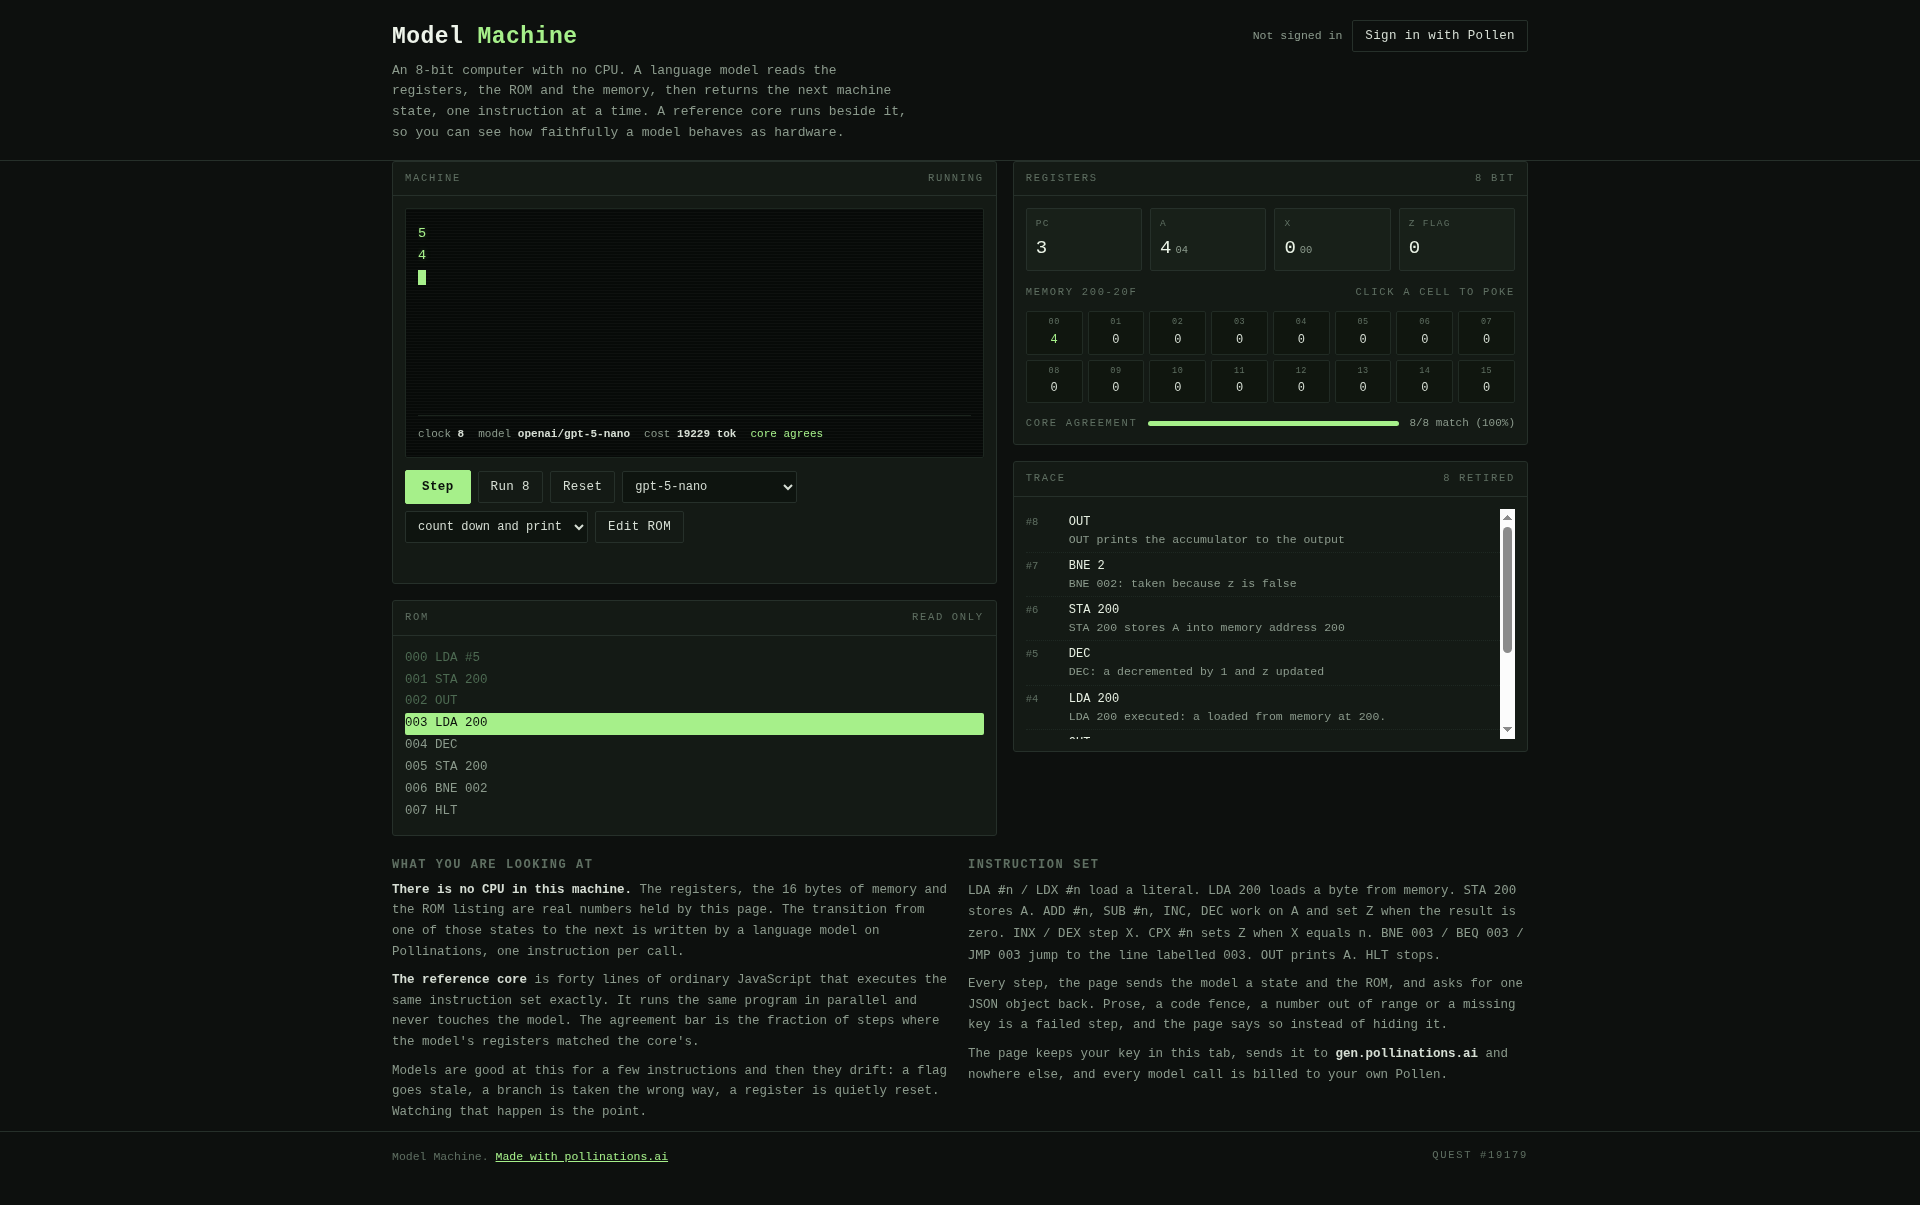
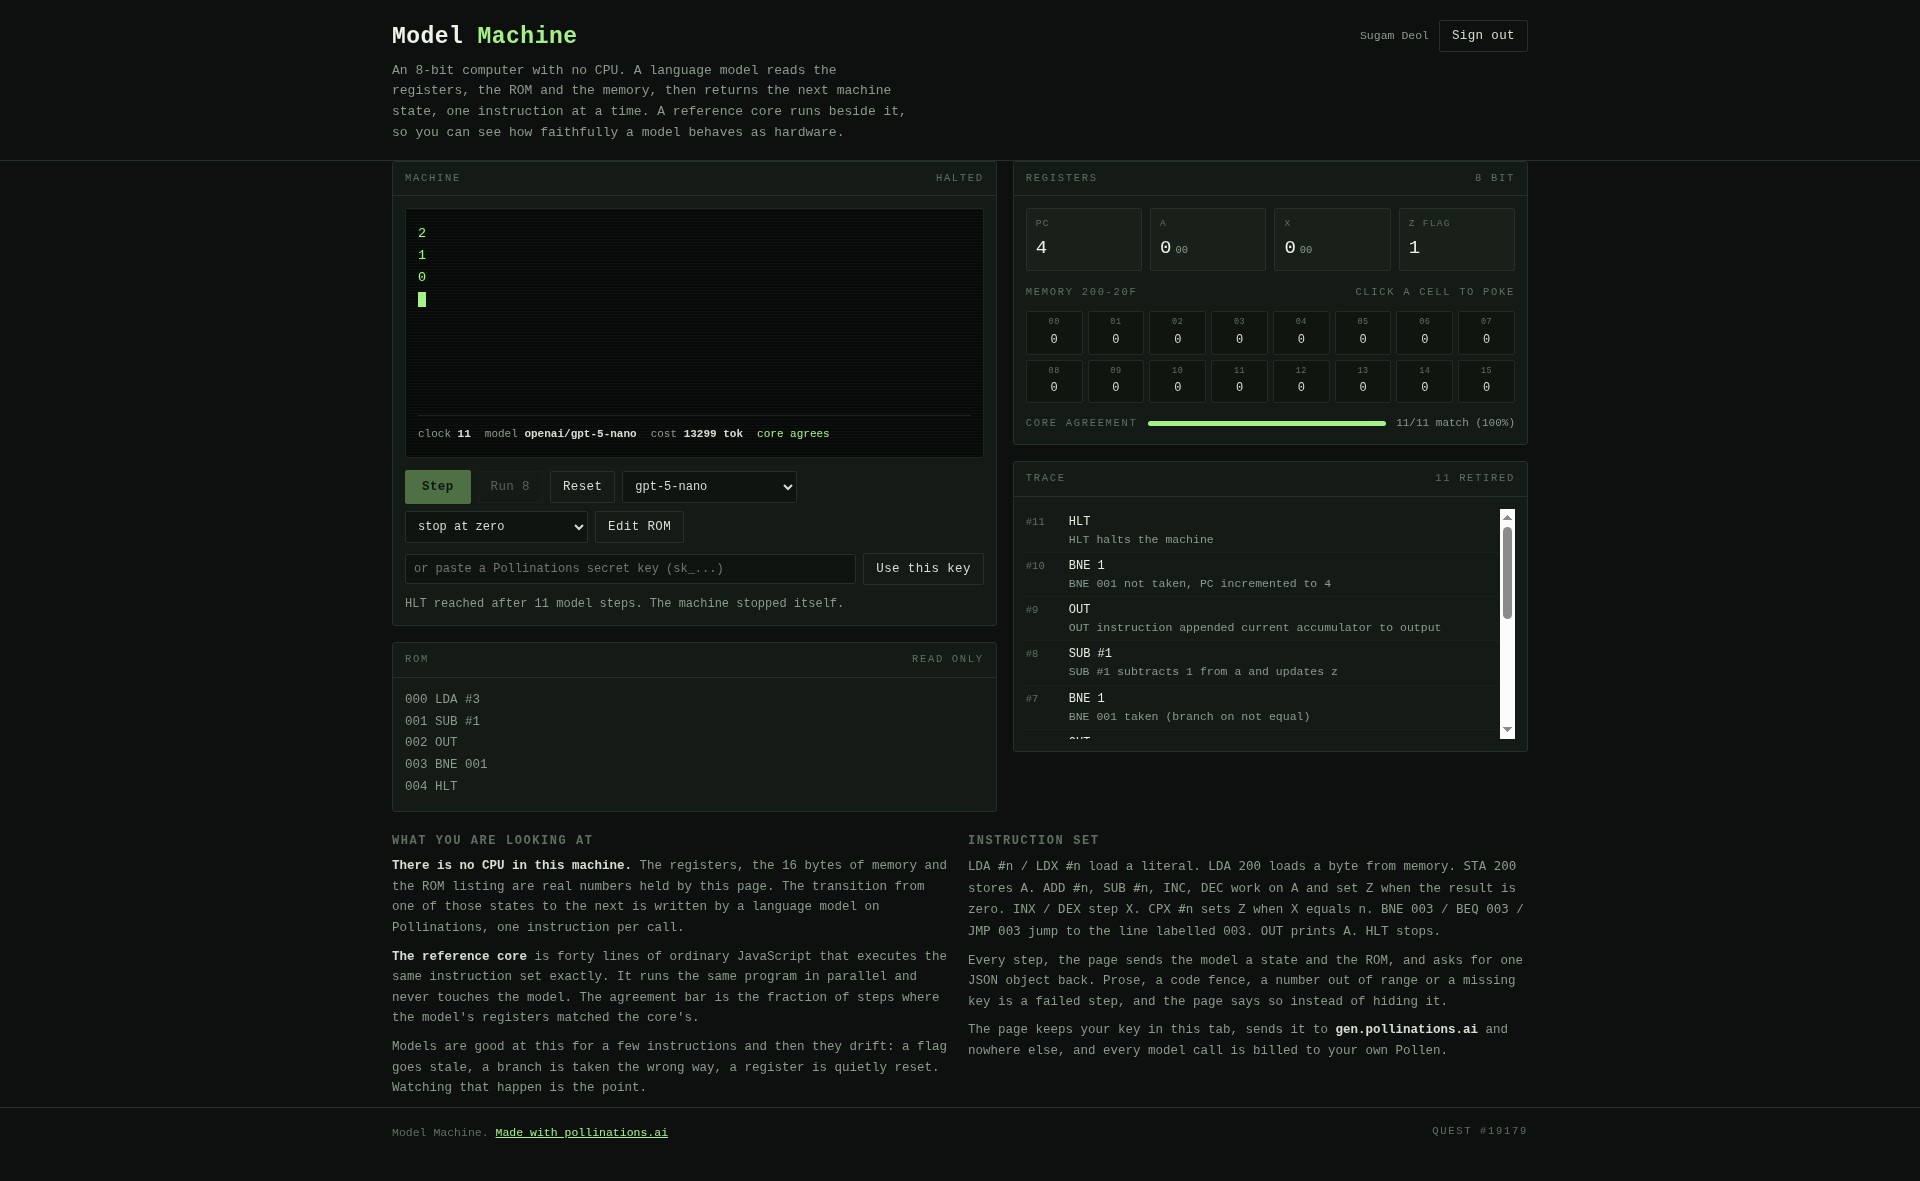
Raise panel label contrast above 4.5:1 and use a live-app screenshot

diff --git a/index.html b/index.html
@@ -8,7 +8,7 @@
 <style>
   :root{
     --void:#0d100e; --panel:#141a15; --panel2:#182019; --rule:#26302a;
-    --ink:#d6ded4; --dim:#8b9a8c; --faint:#5f6f62;
+    --ink:#d6ded4; --dim:#9aa89b; --faint:#8b9a8c;
     --phosphor:#a6f08a; --amber:#f0b35e; --alarm:#e2705f; --cool:#7fc8d8;
   }
   *{box-sizing:border-box}
